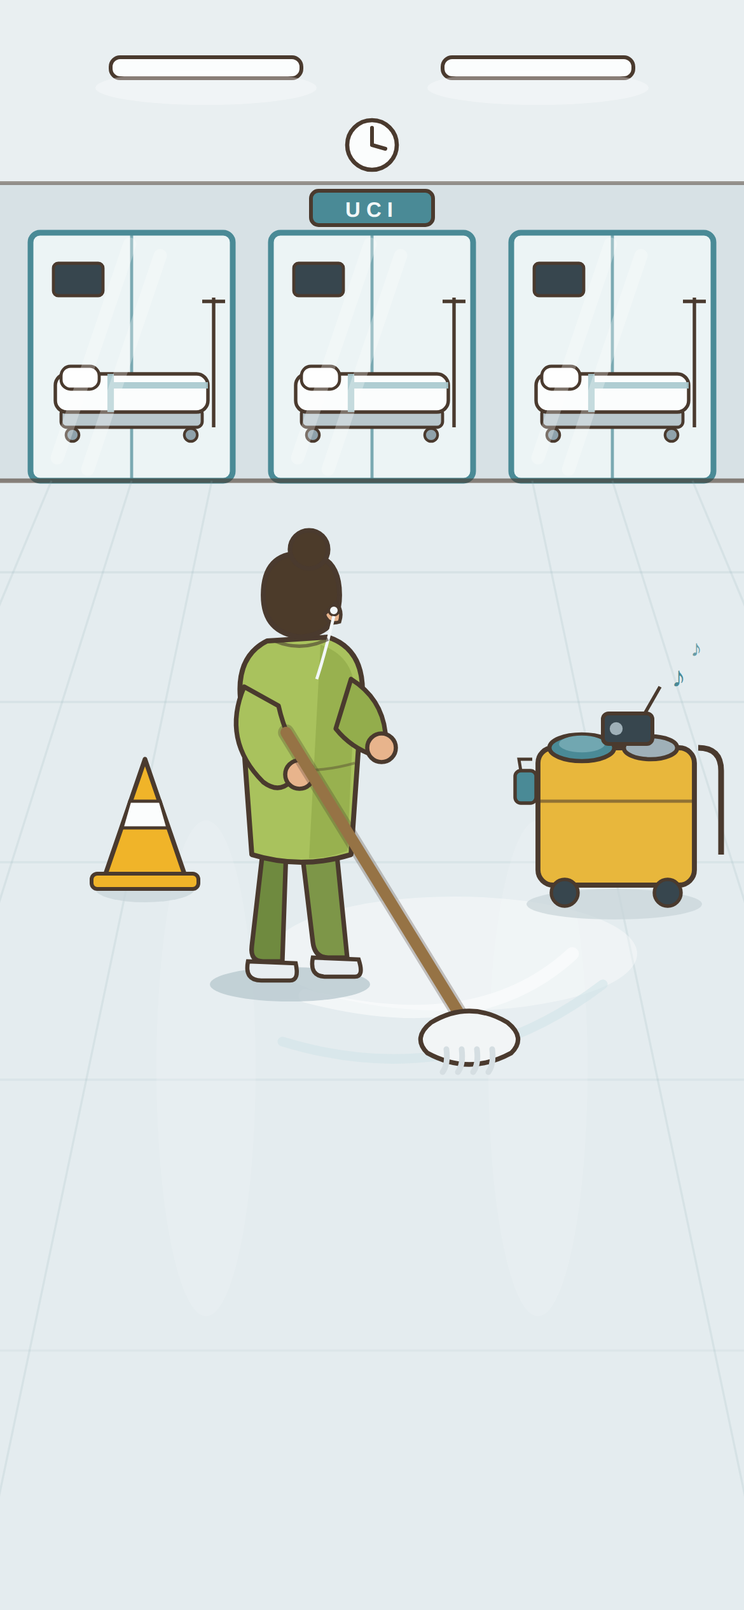
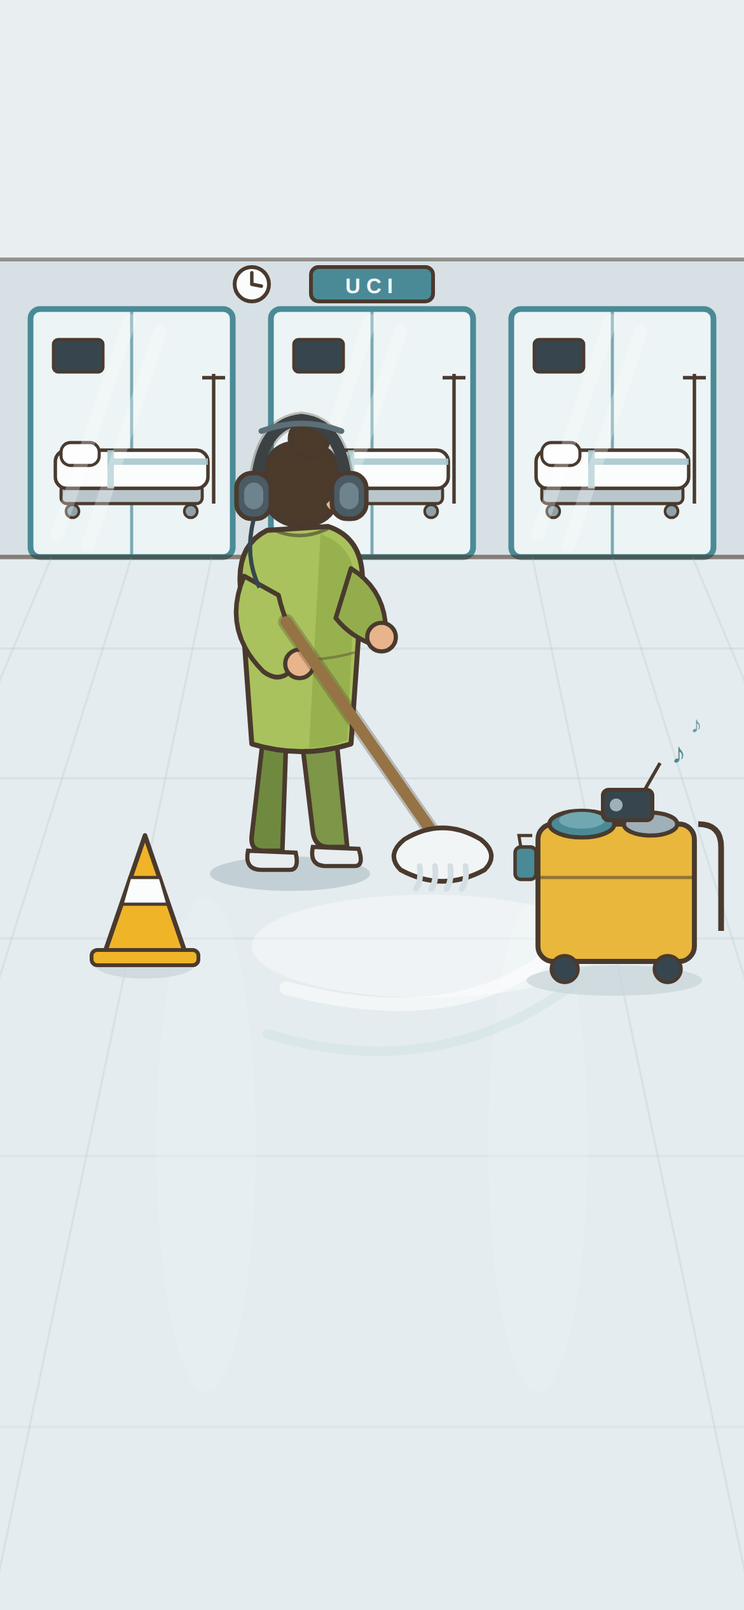
El menú en tres fichas y la escena baja para dejarle el techo al logotipo
La imagen baja 66 px. Arriba sobraba pasillo vacío y el logotipo se topaba
con las salas de vidrio; ahora las letras quedan solas contra el cielo raso.
Para eso el techo tuvo que despejarse del todo: las luminarias se van —el
logotipo se apoya justo ahí y se las cruzaba— y el reloj se muda del techo al
muro, junto al letrero de UCI, que es donde se ve mejor de todos modos.

Bajar la escena solo era posible achicando el menú, porque los cuatro botones
altos arrancaban en y=470 y le cortaban los pies al auxiliar. Y achicarlo
resultó ser lo correcto por otra razón: las modalidades son tres, no cuatro.
La Primera guardia no es una modalidad, es la partida contra la IA con el
coach encendido; en el código es literalmente la misma llamada con una
bandera de más. Así que el menú son tres fichas cuadradas —Contra la IA, Dos
jugadores, Solitario, con ícono y dos palabras— y el tutorial baja a una
casilla debajo: se marca y «Contra la IA» arranca con la guía. Quien ya jugó
no vuelve a leerla nunca.

Se va también el pie del «árbitro digital», que no le habla a quien va a
jugar. Entre eso, el subtítulo de la versión y la nota de las fases, la
pantalla de inicio pasó de tres bloques de texto a ninguno.

Verificado: las tres fichas arrancan su modo, la casilla enciende y apaga y
la partida sale con tuto solo si está marcada; y siguen pasando las etapas de
la regresión de A y el hojeo de B. Los guiones del scratchpad que entraban
[…]

Changed region(s): [[0.0, 0.0624, 1.0, 0.6552], [0.5846, 0.0312, 0.8615, 0.0624], [0.1538, 0.0312, 0.4, 0.0624]]

diff --git a/docs/juego/index.html b/docs/juego/index.html
@@ -1051,8 +1051,9 @@ body.con-portada .app{background:none;position:relative;z-index:1}
    vidrio esmerilado, para que el pasillo se siga viendo por detrás. */
 body.con-portada .portada{padding-top:18px}
 /* con el dibujo detrás, el logotipo se achica: a 310 px tapaba las tres
-   salas de vidrio, que son la mitad de la escena */
-body.con-portada .portada h1 .logo{max-width:252px}
+   salas de vidrio, que son la mitad de la escena, y a 252 seguía cayendo
+   sobre el letrero de UCI */
+body.con-portada .portada h1 .logo{max-width:222px}
 /* Bajo un logotipo tan grande el texto queda sobre el pasillo y no se lee.
    El subtítulo y el párrafo se juntan en una sola placa esmerilada —la
    misma de los botones— para que sigan siendo legibles sin taparlo todo. */
@@ -1072,6 +1073,7 @@ body.con-portada .inicio{display:flex;flex-direction:column;
 body.con-portada .inicio .aire-inicio{flex:1 1 0;min-height:70px}
 body.con-portada .inicio .portada:first-child{padding-bottom:0}
 body.con-portada .opciones{margin-bottom:6px}
+body.con-portada .fichas{margin-bottom:9px}
 body.con-portada .opciones .op{background:rgba(255,255,255,.80);
    backdrop-filter:blur(9px) saturate(1.15);
    -webkit-backdrop-filter:blur(9px) saturate(1.15);
@@ -1571,6 +1573,45 @@ body[data-maq="b"] .zocalo{background:var(--meson-mio) center/100% 100% no-repea
 body[data-maq="b"] .repisa{background:var(--meson-suyo) center/100% 100% no-repeat}
 body[data-maq="b"] .zona.cerca .aire{background:var(--suelo-mio) center top/100% auto no-repeat}
 body[data-maq="b"] .zona.suya .aire{background:var(--suelo-suyo) center bottom/100% auto no-repeat}
+
+/* ── el menú de inicio: tres fichas y una casilla ───────────────────
+   Antes eran cuatro botones anchos con una frase cada uno, y ocupaban de
+   la mitad de la pantalla para abajo. Las modalidades son tres; la Primera
+   guardia no es una modalidad —es la partida contra la IA con el coach— y
+   por eso baja a casilla. Lo que se gana en alto es lo que deja ver el
+   dibujo del pasillo. */
+.fichas{display:grid;grid-template-columns:repeat(3,1fr);gap:8px;margin-bottom:9px}
+.ficha{aspect-ratio:1/1;border-radius:14px;border:1px solid var(--line);
+  background:var(--cerca);display:flex;flex-direction:column;align-items:center;
+  justify-content:center;gap:5px;padding:6px;text-align:center;font:inherit;
+  color:var(--ink);cursor:pointer;
+  transition:transform .12s ease, box-shadow .12s ease, border-color .12s ease}
+.ficha .ic{width:32px;height:32px;display:block;color:var(--acc)}
+.ficha b{font-family:Petrona,Georgia,serif;font-size:12.5px;line-height:1.1}
+.ficha small{font-family:"IBM Plex Mono",monospace;font-size:7.5px;letter-spacing:.08em;
+  text-transform:uppercase;color:var(--ink-3);line-height:1.2}
+.ficha:active{transform:scale(.97)}
+@media (hover:hover){.ficha:hover{border-color:var(--acc);
+  box-shadow:0 4px 14px rgba(13,110,120,.18);transform:translateY(-2px)}}
+.tuto{display:flex;align-items:center;gap:9px;width:100%;text-align:left;
+  padding:9px 11px;border-radius:12px;border:1px solid var(--line);
+  background:var(--cerca);font:inherit;color:var(--ink);cursor:pointer}
+.tuto .marca{width:19px;height:19px;border-radius:6px;flex:none;display:grid;
+  place-items:center;font-size:11px;line-height:1;color:#fff;
+  border:2px solid var(--ink-3);background:transparent}
+.tuto.on{border-color:var(--acc);box-shadow:0 0 0 1.5px var(--acc)}
+.tuto.on .marca{border-color:var(--acc);background:var(--acc)}
+.tuto .tx{font-size:11.5px;line-height:1.25}
+.tuto .tx b{font-family:Petrona,Georgia,serif;font-size:12.5px;display:block}
+@media (prefers-reduced-motion: no-preference){
+  .fichas .ficha{animation:subir .34s cubic-bezier(.2,.9,.3,1) backwards}
+  .fichas .ficha:nth-child(2){animation-delay:70ms}
+  .fichas .ficha:nth-child(3){animation-delay:140ms}}
+/* con portada, las fichas y la casilla se vuelven vidrio esmerilado */
+body.con-portada .ficha,body.con-portada .tuto{background:rgba(255,255,255,.82);
+  backdrop-filter:blur(9px) saturate(1.15);
+  -webkit-backdrop-filter:blur(9px) saturate(1.15);
+  border-color:rgba(60,78,88,.16);box-shadow:0 3px 12px rgba(22,36,46,.13)}
 
 /* ── el coach del tutorial ─────────────────────────────────────────── */
 #tuto{position:fixed;inset:0;z-index:400;pointer-events:none}
@@ -2750,6 +2791,12 @@ function borrar(){ try{ localStorage.removeItem(CLAVE); }catch(e){} }
    Dibujados a mano en SVG: el emoji de radiografía (🩻, Unicode 14) y el de
    personal sanitario (secuencia ZWJ) no existen en muchos teléfonos y salían
    como cuadrado vacío o como un muñeco sin cruz. */
+const SVG_MODO = {
+ ia:'<svg class="ic" viewBox="0 0 32 32" fill="none" stroke="currentColor" stroke-width="2" stroke-linecap="round" stroke-linejoin="round" aria-hidden="true"><rect x="6" y="9" width="20" height="15" rx="4"/><circle cx="12" cy="16" r="1.6" fill="currentColor"/><circle cx="20" cy="16" r="1.6" fill="currentColor"/><path d="M13 20h6M16 9V5M13 5h6"/></svg>',
+ dos:'<svg class="ic" viewBox="0 0 32 32" fill="none" stroke="currentColor" stroke-width="2" stroke-linecap="round" stroke-linejoin="round" aria-hidden="true"><circle cx="11" cy="11" r="4"/><circle cx="22" cy="13" r="3.4"/><path d="M4 25q0-6 7-6t7 6M18 25q.4-4.6 5-4.6T28 25"/></svg>',
+ solo:'<svg class="ic" viewBox="0 0 32 32" fill="none" stroke="currentColor" stroke-width="2" stroke-linecap="round" stroke-linejoin="round" aria-hidden="true"><rect x="4" y="12" width="10" height="14" rx="2.5"/><rect x="18" y="12" width="10" height="14" rx="2.5"/><path d="M9 8v2M23 8v2"/></svg>',
+};
+
 const SVG = {
   IMAGEN:  '<svg viewBox="0 0 16 16" fill="none" stroke="currentColor" stroke-width="1.5">'+
            '<rect x="2.2" y="1.6" width="11.6" height="12.8" rx="1.7"/>'+
@@ -4793,38 +4840,42 @@ function pantallaInicio(){
   // menú al filo de abajo, así ninguno de los dos le come sitio al otro
   w.appendChild(el("div","aire-inicio"));
   const s = el("div","portada"); s.style.paddingTop="14px";
-  const ops = el("div","opciones");
-  const mk = (tit, sub, fn)=>{
-    const b = el("button","op");
-    b.innerHTML = `<b>${tit}</b><small>${sub}</small>`;
+  // Tres modalidades, tres fichas. La cuarta entrada de antes —Primera
+  // guardia— NO es una modalidad: es la partida contra la IA con el coach
+  // encendido, la misma llamada con una bandera de más. Así que baja a una
+  // casilla: la marcas y «Contra la IA» arranca con la guía. Quien ya jugó
+  // no vuelve a leerla y el menú son tres fichas y nada más.
+  const ops = el("div","fichas");
+  const mk = (icono, tit, sub, fn)=>{
+    const b = el("button","ficha");
+    b.innerHTML = icono + `<b>${tit}</b><small>${sub}</small>`;
     b.onclick = fn; ops.appendChild(b);
   };
-  mk("📖 Primera guardia (tutorial)",
-     "¿Primera vez? Partida guiada contra la IA: el coach te muestra cada paso.",
-     ()=>nuevaPartida("ia",["Tú","Dr. Silicio"], true));
-  mk("Solo contra la IA",
-     "La IA usa la heurística medida en el simulador. Para probar en cualquier parte.",
-     ()=>nuevaPartida("ia",["Tú","Dr. Silicio"]));
-  mk("Dos jugadores, un teléfono",
-     "Por turnos, con cortina de traspaso entre uno y otro.",
+  mk(SVG_MODO.ia, "Contra la IA", "1 jugador",
+     ()=>nuevaPartida("ia",["Tú","Dr. Silicio"], !!UI.conTuto));
+  mk(SVG_MODO.dos, "Dos jugadores", "un teléfono",
      ()=>nuevaPartida("hotseat",["Jugador 1","Jugador 2"]));
-  mk("Solitario a dos manos",
-     "Juegas los dos lados sin cortina, como probaste en papel.",
+  mk(SVG_MODO.solo, "Solitario", "dos manos",
      ()=>nuevaPartida("abierto",["Mano A","Mano B"]));
   s.appendChild(ops);
+
+  const tu = el("button","tuto"+(UI.conTuto?" on":""));
+  tu.innerHTML = `<span class="marca">${UI.conTuto?"✓":""}</span>` +
+    `<span class="tx"><b>Primera guardia</b>` +
+    `La IA con el coach: te muestra cada paso.</span>`;
+  tu.setAttribute("aria-pressed", UI.conTuto ? "true" : "false");
+  tu.onclick = ()=>{ UI.conTuto = !UI.conTuto; render(); };
+  s.appendChild(tu);
+
   if(localStorage.getItem(CLAVE)){
     const b = el("button","btn pri","Retomar la guardia guardada");
+    b.style.marginTop = "9px";
     b.onclick = ()=>{ if(cargar()) render(); };
     s.appendChild(b);
   }
   const inst = bloqueInstalar();
   if(inst) s.appendChild(inst);
   w.appendChild(s);
-  // lo que era el subtítulo y el párrafo se juntan en una sola línea al
-  // pie: son la letra chica del proyecto, no la portada
-  w.appendChild(el("div","pie-app",
-    "Árbitro digital para probar el juego donde no puedas llevar las cartas. "+
-    "El formato final es físico."));
   return w;
 }
 

diff --git a/tools/app-plantilla.html b/tools/app-plantilla.html
@@ -1039,8 +1039,9 @@ body.con-portada .app{background:none;position:relative;z-index:1}
    vidrio esmerilado, para que el pasillo se siga viendo por detrás. */
 body.con-portada .portada{padding-top:18px}
 /* con el dibujo detrás, el logotipo se achica: a 310 px tapaba las tres
-   salas de vidrio, que son la mitad de la escena */
-body.con-portada .portada h1 .logo{max-width:252px}
+   salas de vidrio, que son la mitad de la escena, y a 252 seguía cayendo
+   sobre el letrero de UCI */
+body.con-portada .portada h1 .logo{max-width:222px}
 /* Bajo un logotipo tan grande el texto queda sobre el pasillo y no se lee.
    El subtítulo y el párrafo se juntan en una sola placa esmerilada —la
    misma de los botones— para que sigan siendo legibles sin taparlo todo. */
@@ -1060,6 +1061,7 @@ body.con-portada .inicio{display:flex;flex-direction:column;
 body.con-portada .inicio .aire-inicio{flex:1 1 0;min-height:70px}
 body.con-portada .inicio .portada:first-child{padding-bottom:0}
 body.con-portada .opciones{margin-bottom:6px}
+body.con-portada .fichas{margin-bottom:9px}
 body.con-portada .opciones .op{background:rgba(255,255,255,.80);
    backdrop-filter:blur(9px) saturate(1.15);
    -webkit-backdrop-filter:blur(9px) saturate(1.15);
@@ -1559,6 +1561,45 @@ body[data-maq="b"] .zocalo{background:var(--meson-mio) center/100% 100% no-repea
 body[data-maq="b"] .repisa{background:var(--meson-suyo) center/100% 100% no-repeat}
 body[data-maq="b"] .zona.cerca .aire{background:var(--suelo-mio) center top/100% auto no-repeat}
 body[data-maq="b"] .zona.suya .aire{background:var(--suelo-suyo) center bottom/100% auto no-repeat}
+
+/* ── el menú de inicio: tres fichas y una casilla ───────────────────
+   Antes eran cuatro botones anchos con una frase cada uno, y ocupaban de
+   la mitad de la pantalla para abajo. Las modalidades son tres; la Primera
+   guardia no es una modalidad —es la partida contra la IA con el coach— y
+   por eso baja a casilla. Lo que se gana en alto es lo que deja ver el
+   dibujo del pasillo. */
+.fichas{display:grid;grid-template-columns:repeat(3,1fr);gap:8px;margin-bottom:9px}
+.ficha{aspect-ratio:1/1;border-radius:14px;border:1px solid var(--line);
+  background:var(--cerca);display:flex;flex-direction:column;align-items:center;
+  justify-content:center;gap:5px;padding:6px;text-align:center;font:inherit;
+  color:var(--ink);cursor:pointer;
+  transition:transform .12s ease, box-shadow .12s ease, border-color .12s ease}
+.ficha .ic{width:32px;height:32px;display:block;color:var(--acc)}
+.ficha b{font-family:Petrona,Georgia,serif;font-size:12.5px;line-height:1.1}
+.ficha small{font-family:"IBM Plex Mono",monospace;font-size:7.5px;letter-spacing:.08em;
+  text-transform:uppercase;color:var(--ink-3);line-height:1.2}
+.ficha:active{transform:scale(.97)}
+@media (hover:hover){.ficha:hover{border-color:var(--acc);
+  box-shadow:0 4px 14px rgba(13,110,120,.18);transform:translateY(-2px)}}
+.tuto{display:flex;align-items:center;gap:9px;width:100%;text-align:left;
+  padding:9px 11px;border-radius:12px;border:1px solid var(--line);
+  background:var(--cerca);font:inherit;color:var(--ink);cursor:pointer}
+.tuto .marca{width:19px;height:19px;border-radius:6px;flex:none;display:grid;
+  place-items:center;font-size:11px;line-height:1;color:#fff;
+  border:2px solid var(--ink-3);background:transparent}
+.tuto.on{border-color:var(--acc);box-shadow:0 0 0 1.5px var(--acc)}
+.tuto.on .marca{border-color:var(--acc);background:var(--acc)}
+.tuto .tx{font-size:11.5px;line-height:1.25}
+.tuto .tx b{font-family:Petrona,Georgia,serif;font-size:12.5px;display:block}
+@media (prefers-reduced-motion: no-preference){
+  .fichas .ficha{animation:subir .34s cubic-bezier(.2,.9,.3,1) backwards}
+  .fichas .ficha:nth-child(2){animation-delay:70ms}
+  .fichas .ficha:nth-child(3){animation-delay:140ms}}
+/* con portada, las fichas y la casilla se vuelven vidrio esmerilado */
+body.con-portada .ficha,body.con-portada .tuto{background:rgba(255,255,255,.82);
+  backdrop-filter:blur(9px) saturate(1.15);
+  -webkit-backdrop-filter:blur(9px) saturate(1.15);
+  border-color:rgba(60,78,88,.16);box-shadow:0 3px 12px rgba(22,36,46,.13)}
 
 /* ── el coach del tutorial ─────────────────────────────────────────── */
 #tuto{position:fixed;inset:0;z-index:400;pointer-events:none}
@@ -2736,6 +2777,12 @@ function borrar(){ try{ localStorage.removeItem(CLAVE); }catch(e){} }
    Dibujados a mano en SVG: el emoji de radiografía (🩻, Unicode 14) y el de
    personal sanitario (secuencia ZWJ) no existen en muchos teléfonos y salían
    como cuadrado vacío o como un muñeco sin cruz. */
+const SVG_MODO = {
+ ia:'<svg class="ic" viewBox="0 0 32 32" fill="none" stroke="currentColor" stroke-width="2" stroke-linecap="round" stroke-linejoin="round" aria-hidden="true"><rect x="6" y="9" width="20" height="15" rx="4"/><circle cx="12" cy="16" r="1.6" fill="currentColor"/><circle cx="20" cy="16" r="1.6" fill="currentColor"/><path d="M13 20h6M16 9V5M13 5h6"/></svg>',
+ dos:'<svg class="ic" viewBox="0 0 32 32" fill="none" stroke="currentColor" stroke-width="2" stroke-linecap="round" stroke-linejoin="round" aria-hidden="true"><circle cx="11" cy="11" r="4"/><circle cx="22" cy="13" r="3.4"/><path d="M4 25q0-6 7-6t7 6M18 25q.4-4.6 5-4.6T28 25"/></svg>',
+ solo:'<svg class="ic" viewBox="0 0 32 32" fill="none" stroke="currentColor" stroke-width="2" stroke-linecap="round" stroke-linejoin="round" aria-hidden="true"><rect x="4" y="12" width="10" height="14" rx="2.5"/><rect x="18" y="12" width="10" height="14" rx="2.5"/><path d="M9 8v2M23 8v2"/></svg>',
+};
+
 const SVG = {
   IMAGEN:  '<svg viewBox="0 0 16 16" fill="none" stroke="currentColor" stroke-width="1.5">'+
            '<rect x="2.2" y="1.6" width="11.6" height="12.8" rx="1.7"/>'+
@@ -4779,38 +4826,42 @@ function pantallaInicio(){
   // menú al filo de abajo, así ninguno de los dos le come sitio al otro
   w.appendChild(el("div","aire-inicio"));
   const s = el("div","portada"); s.style.paddingTop="14px";
-  const ops = el("div","opciones");
-  const mk = (tit, sub, fn)=>{
-    const b = el("button","op");
-    b.innerHTML = `<b>${tit}</b><small>${sub}</small>`;
+  // Tres modalidades, tres fichas. La cuarta entrada de antes —Primera
+  // guardia— NO es una modalidad: es la partida contra la IA con el coach
+  // encendido, la misma llamada con una bandera de más. Así que baja a una
+  // casilla: la marcas y «Contra la IA» arranca con la guía. Quien ya jugó
+  // no vuelve a leerla y el menú son tres fichas y nada más.
+  const ops = el("div","fichas");
+  const mk = (icono, tit, sub, fn)=>{
+    const b = el("button","ficha");
+    b.innerHTML = icono + `<b>${tit}</b><small>${sub}</small>`;
     b.onclick = fn; ops.appendChild(b);
   };
-  mk("📖 Primera guardia (tutorial)",
-     "¿Primera vez? Partida guiada contra la IA: el coach te muestra cada paso.",
-     ()=>nuevaPartida("ia",["Tú","Dr. Silicio"], true));
-  mk("Solo contra la IA",
-     "La IA usa la heurística medida en el simulador. Para probar en cualquier parte.",
-     ()=>nuevaPartida("ia",["Tú","Dr. Silicio"]));
-  mk("Dos jugadores, un teléfono",
-     "Por turnos, con cortina de traspaso entre uno y otro.",
+  mk(SVG_MODO.ia, "Contra la IA", "1 jugador",
+     ()=>nuevaPartida("ia",["Tú","Dr. Silicio"], !!UI.conTuto));
+  mk(SVG_MODO.dos, "Dos jugadores", "un teléfono",
      ()=>nuevaPartida("hotseat",["Jugador 1","Jugador 2"]));
-  mk("Solitario a dos manos",
-     "Juegas los dos lados sin cortina, como probaste en papel.",
+  mk(SVG_MODO.solo, "Solitario", "dos manos",
      ()=>nuevaPartida("abierto",["Mano A","Mano B"]));
   s.appendChild(ops);
+
+  const tu = el("button","tuto"+(UI.conTuto?" on":""));
+  tu.innerHTML = `<span class="marca">${UI.conTuto?"✓":""}</span>` +
+    `<span class="tx"><b>Primera guardia</b>` +
+    `La IA con el coach: te muestra cada paso.</span>`;
+  tu.setAttribute("aria-pressed", UI.conTuto ? "true" : "false");
+  tu.onclick = ()=>{ UI.conTuto = !UI.conTuto; render(); };
+  s.appendChild(tu);
+
   if(localStorage.getItem(CLAVE)){
     const b = el("button","btn pri","Retomar la guardia guardada");
+    b.style.marginTop = "9px";
     b.onclick = ()=>{ if(cargar()) render(); };
     s.appendChild(b);
   }
   const inst = bloqueInstalar();
   if(inst) s.appendChild(inst);
   w.appendChild(s);
-  // lo que era el subtítulo y el párrafo se juntan en una sola línea al
-  // pie: son la letra chica del proyecto, no la portada
-  w.appendChild(el("div","pie-app",
-    "Árbitro digital para probar el juego donde no puedas llevar las cartas. "+
-    "El formato final es físico."));
   return w;
 }
 

diff --git a/docs/juego/sw.js b/docs/juego/sw.js
@@ -1,6 +1,6 @@
 /* ¡Vaya Turno! — service worker generado por tools/generar_app.py.
    No editar a mano: se rehace con `python3 tools/generar_app.py --pwa`. */
-const VERSION = "vt-b1904f8ed1fc";
+const VERSION = "vt-1163cdfa3682";
 const NUCLEO = ["./", "index.html", "manifest.webmanifest", "iconos/icono-192.png", "iconos/icono-512.png", "iconos/icono-maskable-512.png", "iconos/apple-touch-icon.png", "tipos/ArchivoNarrow-500-latin-ext.woff2", "tipos/ArchivoNarrow-500-latin.woff2", "tipos/ArchivoNarrow-600-latin-ext.woff2", "tipos/ArchivoNarrow-600-latin.woff2", "tipos/ArchivoNarrow-700-latin-ext.woff2", "tipos/ArchivoNarrow-700-latin.woff2", "tipos/IBMPlexMono-400-latin-ext.woff2", "tipos/IBMPlexMono-400-latin.woff2", "tipos/IBMPlexMono-500-latin-ext.woff2", "tipos/IBMPlexMono-500-latin.woff2", "tipos/IBMPlexMono-600-latin-ext.woff2", "tipos/IBMPlexMono-600-latin.woff2", "tipos/Petrona-500-latin-ext.woff2", "tipos/Petrona-500-latin.woff2", "tipos/Petrona-500i-latin-ext.woff2", "tipos/Petrona-500i-latin.woff2", "tipos/Petrona-700-latin-ext.woff2", "tipos/Petrona-700-latin.woff2", "tipos/tipos.css"];
 const ARTE = ["arte/A01.webp", "arte/A19.webp", "arte/C01.webp", "arte/C17.webp", "arte/C19.webp", "arte/P02.webp", "arte/P04.webp", "arte/P11.webp", "arte/R07.webp", "arte/R50.webp", "portada/dibujo.svg", "portada/logo.webp", "portada/portada.jpg", "portada/portada.mp4"];
 

diff --git a/tools/generar_portada_vector.py b/tools/generar_portada_vector.py
@@ -19,25 +19,32 @@ import os
 
 L = "#4a3a2e"        # el delineado café de la casa
 W, H = 390, 844
+# La escena entera baja BAJA px. Arriba hay sitio de sobra —el pasillo se ve
+# vacío— y el logotipo se topaba con las salas de vidrio: bajando el dibujo
+# las letras quedan solas contra el cielo raso y no tapan nada.
+#
+# 66 es lo que deja el menú de tres fichas: con los cuatro botones altos de
+# antes el dibujo no podía bajar de 40 sin que le cortaran los pies al
+# auxiliar. Aquí el logotipo queda solo contra el cielo raso.
+BAJA = 66
 
 def svg():
     p = []
     a = p.append
 
     # ── fondo: cielo raso, muro y piso ────────────────────────────────
-    a(f'<rect width="{W}" height="252" fill="#d7e1e5"/>')
-    a(f'<rect width="{W}" height="96" fill="#e9eff1"/>')
-    a(f'<rect y="252" width="{W}" height="{H-252}" fill="#e4ecef"/>')
-    # luces del techo, y su resplandor
-    for x in (58, 232):
-        a(f'<rect x="{x}" y="30" width="100" height="11" rx="5" fill="#fbfdfd" '
-          f'stroke="{L}" stroke-width="2"/>')
-        a(f'<ellipse cx="{x+50}" cy="46" rx="58" ry="9" fill="#ffffff" opacity=".35"/>')
+    # va FUERA del grupo que baja, y estirado hacia arriba, para que el
+    # corrimiento no deje una franja hueca sobre el cielo raso
+    fondo = (f'<rect y="{-BAJA}" width="{W}" height="{252+BAJA*2}" fill="#d7e1e5"/>'
+             f'<rect y="{-BAJA}" width="{W}" height="{96+BAJA*2}" fill="#e9eff1"/>'
+             f'<rect y="{252+BAJA}" width="{W}" height="{H-252}" fill="#e4ecef"/>')
+    # El cielo raso queda LIMPIO: ahí se apoya el logotipo y cualquier cosa
+    # que se dibuje se le cruza por las letras. Las luminarias se quedan solo
+    # como charco de luz en el piso, más abajo.
     a(f'<path d="M0 96 L{W} 96" stroke="{L}" stroke-width="2" opacity=".5"/>')
-
-    # el reloj de la sala: siete y diez de la mañana
-    a(f'<circle cx="195" cy="76" r="13" fill="#fbfdfd" stroke="{L}" stroke-width="2.2"/>')
-    a(f'<path d="M195 76 L195 67 M195 76 L202 78" stroke="{L}" stroke-width="2" '
+    # el reloj se muda del techo al muro, junto al letrero: siete y diez
+    a(f'<circle cx="132" cy="109" r="9" fill="#fbfdfd" stroke="{L}" stroke-width="2"/>')
+    a(f'<path d="M132 109 L132 103 M132 109 L137 110" stroke="{L}" stroke-width="1.8" '
       f'stroke-linecap="round"/>')
 
     # el letrero de la unidad
@@ -121,11 +128,12 @@ def svg():
     a('<text x="362" y="344" font-family="Arial,sans-serif" font-size="12" fill="#4a8a96" opacity=".8">♪</text>')
 
     # ── el auxiliar, de espaldas en tres cuartos ──────────────────────
-    # El grupo sube 24 px. El menú se apoya en el filo de abajo y empieza
-    # alrededor de y=485; con este corrimiento el auxiliar entero —incluida
-    # la cabeza del trapero, que es lo último que baja— cae por encima del
-    # primer botón, y la cabeza queda justo bajo el logotipo.
-    a('<g transform="translate(0,-24)">')
+    # El auxiliar sube 54 px DENTRO de la escena, que a su vez baja 40: neto
+    # queda 14 px más arriba que antes. Es lo que hace falta para que el
+    # dibujo pueda bajar —y despejar el logotipo— sin que el menú, que
+    # arranca en y=470, le corte la cabeza del trapero. Queda de pie delante
+    # de las salas, que es donde va: él está en el pasillo.
+    a('<g transform="translate(0,-34)">')
     a('<ellipse cx="152" cy="472" rx="42" ry="9" fill="#b9c9cf" opacity=".8"/>')
     # las piernas en zancada corta, con los zuecos
     a(f'<path d="M138 400 L132 452 Q131 460 138 460 L148 460 L150 402 Z" '
@@ -187,7 +195,7 @@ def svg():
 
     return (f'<svg xmlns="http://www.w3.org/2000/svg" viewBox="0 0 {W} {H}" '
             f'width="{W}" height="{H}" preserveAspectRatio="xMidYMid slice">'
-            + "".join(p) + '</svg>')
+            + fondo + f'<g transform="translate(0,{BAJA})">' + "".join(p) + '</g></svg>')
 
 
 RAIZ = os.path.dirname(os.path.dirname(os.path.abspath(__file__)))

diff --git a/docs/PENDIENTES.md b/docs/PENDIENTES.md
@@ -403,11 +403,19 @@ Para que la escena y el menú convivan, el inicio pasó a ser una **columna
 de alto completo**: logotipo arriba, un `aire-inicio` flexible en medio
 —que es donde se luce el dibujo— y el menú apoyado en el filo de abajo.
 Antes el menú arrancaba a `8vh` fijos y en pantalla corta le caía encima al
-auxiliar. Se fueron el subtítulo «Guardia virtual · reglas» y la nota de
-las tres fases y las Acciones —no aplican a quien va a jugar—, el logotipo
-bajó de 310 a 252 px para no tapar las salas, y el velo dejó de borrar el
-piso (llegaba a 0,97 de blanco): ahora los botones son vidrio esmerilado
-sobre el suelo recién trapeado.
+auxiliar. Se fueron el subtítulo «Guardia virtual · reglas», la nota de las
+tres fases y las Acciones, y el pie del «árbitro digital» —ninguno le habla
+a quien va a jugar—, y el velo dejó de borrar el piso (llegaba a 0,97 de
+blanco): los botones son vidrio esmerilado sobre el suelo recién trapeado.
+
+**Y el menú son tres fichas.** Las modalidades son tres, no cuatro: la
+Primera guardia **no es una modalidad**, es la partida contra la IA con el
+coach encendido —en el código, la misma llamada con una bandera de más—.
+Así que baja a una **casilla** bajo las fichas: la marcas y «Contra la IA»
+arranca con la guía; quien ya jugó no vuelve a leerla nunca. Con el menú
+compacto la escena pudo bajar 66 px enteros y el logotipo quedó solo contra
+el cielo raso, que además se despejó: las luminarias se fueron y el reloj se
+mudó del techo al muro, junto al letrero de UCI.
 
 **La pantalla de inicio tiene fondo vivo** (v0.52): el clip del auxiliar
 de aseo trapeando el pasillo, en bucle y con la unidad sonando. Sale de
